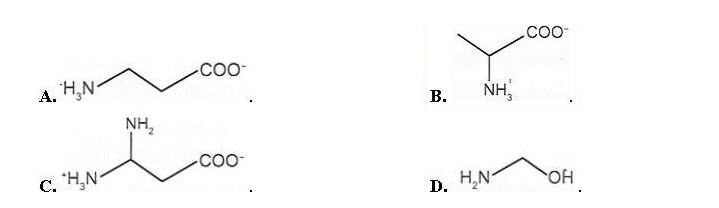
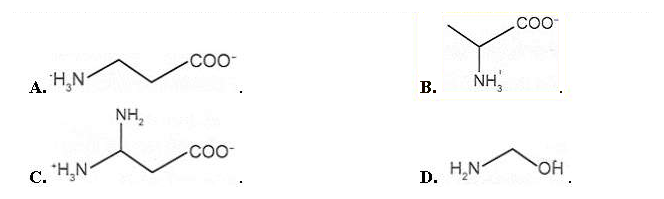
fix(quiz): bo sung day du tat ca hinh anh Chuyen de 2 Vat Li, lam sach hinh Hoa 12 va cap nhat badge 7 de

diff --git a/assets/js/lab-phys-cd2-data.js b/assets/js/lab-phys-cd2-data.js
@@ -30,7 +30,7 @@
         "level": "nb_th",
         "label": "Phần 1 - Câu 1",
         "topic": "Khí lí tưởng",
-        "figure": null,
+        "figure": "assets/images/quiz/phys/phys_cd2_box_gas.png",
         "question": "Câu nào sau đây nói về các phân tử khí lí tưởng là <b>không đúng</b>?",
         "options": {
           "A": "Có lực tương tác không đáng kể khi chưa va chạm.",
@@ -50,7 +50,7 @@
         "level": "nb_th",
         "label": "Phần 1 - Câu 2",
         "topic": "Cấu tạo chất khí",
-        "figure": null,
+        "figure": "assets/images/quiz/phys/phys_cd2_balloons.png",
         "question": "Tại sao những quả bóng bay khi để lâu ngày vẫn bị xẹp mặc dù đã được buộc thật chặt?",
         "options": {
           "A": "Vì khi mới thổi, không khí từ miệng vào bóng còn nóng, sau đó lạnh dần nên co lại.",
@@ -632,7 +632,7 @@
         "level": "nb_th",
         "label": "Phần 1 - Câu 1",
         "topic": "Hiện tượng dãn khí",
-        "figure": null,
+        "figure": "assets/images/quiz/phys/phys_cd2_spray_bottle.png",
         "question": "Với bình xịt khử trùng, khi ta ấn nút, van mở ra thì hiện tượng nào sau đây sẽ xảy ra với lượng khí đang bị nén trong bình?",
         "options": {
           "A": "Thể tích khí giảm, áp suất khí giảm.",
@@ -672,7 +672,7 @@
         "level": "nb_th",
         "label": "Phần 1 - Câu 3",
         "topic": "Hiện tượng khuếch tán",
-        "figure": null,
+        "figure": "assets/images/quiz/phys/phys_cd2_flat_tire.png",
         "question": "Bơm căng săm xe đạp và vặn van thật chặt nhưng để lâu ngày lốp xe vẫn bị xẹp dần vì",
         "options": {
           "A": "giữa các phân tử cao su dùng làm săm có khoảng cách nên các phân tử không khí có thể khuếch tán qua đó thoát ra ngoài.",
@@ -732,7 +732,7 @@
         "level": "vd",
         "label": "Phần 1 - Câu 6",
         "topic": "Số phân tử trong lượng chất",
-        "figure": null,
+        "figure": "assets/images/quiz/phys/phys_cd2_oxygen_hand.png",
         "question": "Số phân tử Oxygen ($\\text{O}_2$) có trong 1 gam khí Oxygen là bao nhiêu? (Lấy $N_A = 6,022 \\cdot 10^{23}\\text{ mol}^{-1}$)",
         "options": {
           "A": "$2,082 \\cdot 10^{23}$.",

diff --git a/index.html b/index.html
@@ -450,12 +450,12 @@
   <script src="assets/js/lab-math-data.js?v=20261021_pbc11"></script>
   <script src="assets/js/lab-math-kha-data.js?v=20261029_fix_p2_tf"></script>
   <script src="assets/js/lab-math.js?v=20261029_fix_p2_tf"></script>
-  <script src="assets/js/lab-chem-data.js?v=20261030_v3"></script>
-  <script src="assets/js/lab-chem-bai9-data.js?v=20261030_v3"></script>
+  <script src="assets/js/lab-chem-data.js?v=20261102_cd2_v2"></script>
+  <script src="assets/js/lab-chem-bai9-data.js?v=20261102_cd2_v2"></script>
   <script src="assets/js/lab-chem.js?v=20261030_v3"></script>
   <script src="assets/js/lab-phys-data.js?v=20261102_cd2"></script>
-  <script src="assets/js/lab-phys-cd2-data.js?v=20261102_cd2"></script>
-  <script src="assets/js/lab-phys.js?v=20261102_cd2"></script>
+  <script src="assets/js/lab-phys-cd2-data.js?v=20261102_cd2_v2"></script>
+  <script src="assets/js/lab-phys.js?v=20261102_cd2_v2"></script>
   
   <script>
     window.lastLabTab = 'acid-base';

diff --git a/lab.html b/lab.html
@@ -441,12 +441,12 @@
   <script src="assets/js/lab-math-data.js?v=20261021_pbc11"></script>
   <script src="assets/js/lab-math-kha-data.js?v=20261029_fix_p2_tf"></script>
   <script src="assets/js/lab-math.js?v=20261029_fix_p2_tf"></script>
-  <script src="assets/js/lab-chem-data.js?v=20261030_v3"></script>
-  <script src="assets/js/lab-chem-bai9-data.js?v=20261030_v3"></script>
+  <script src="assets/js/lab-chem-data.js?v=20261102_cd2_v2"></script>
+  <script src="assets/js/lab-chem-bai9-data.js?v=20261102_cd2_v2"></script>
   <script src="assets/js/lab-chem.js?v=20261030_v3"></script>
   <script src="assets/js/lab-phys-data.js?v=20261102_cd2"></script>
-  <script src="assets/js/lab-phys-cd2-data.js?v=20261102_cd2"></script>
-  <script src="assets/js/lab-phys.js?v=20261102_cd2"></script>
+  <script src="assets/js/lab-phys-cd2-data.js?v=20261102_cd2_v2"></script>
+  <script src="assets/js/lab-phys.js?v=20261102_cd2_v2"></script>
   
   <script>
     window.lastLabTab = 'acid-base';
